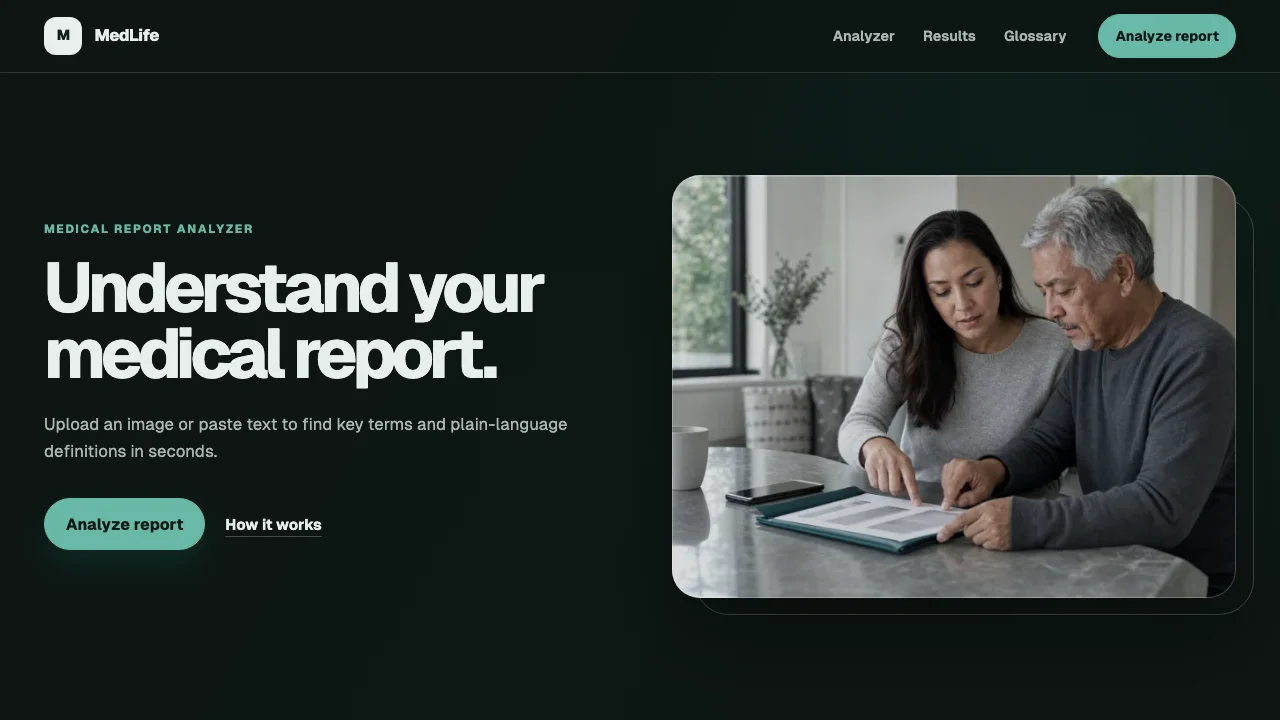
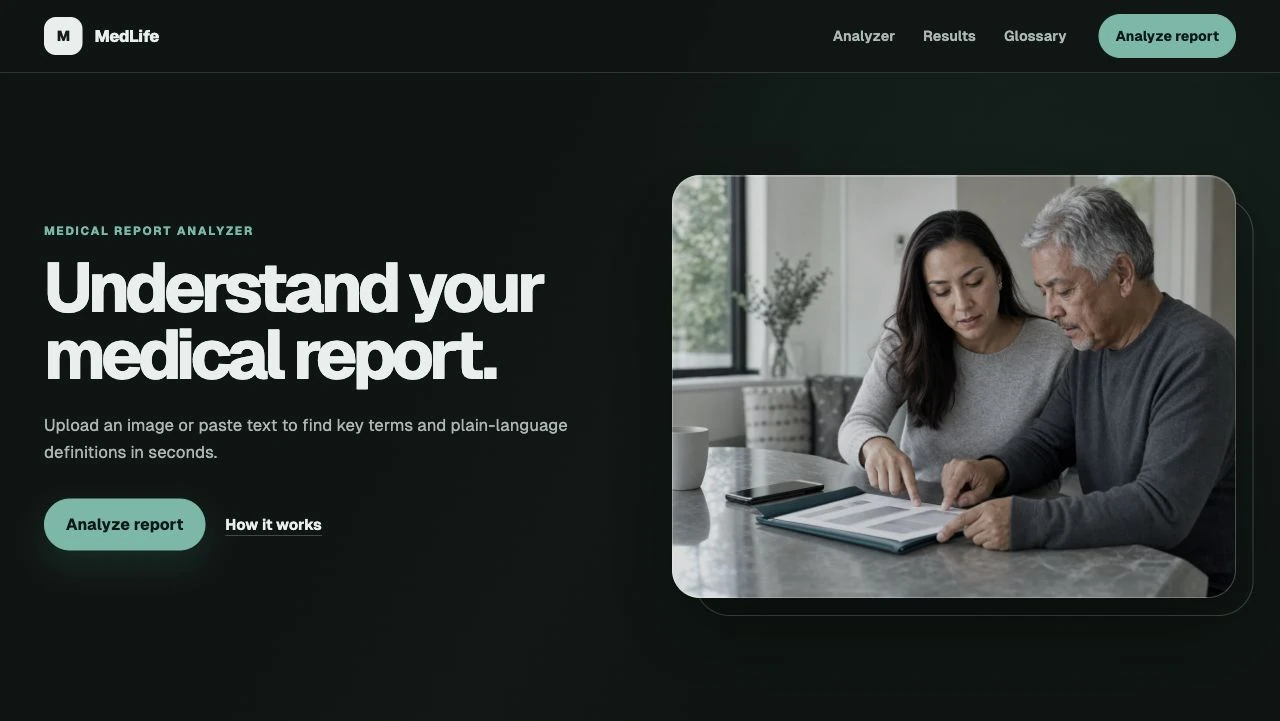
Refresh all project previews with complete current interfaces

diff --git a/src/content.js b/src/content.js
@@ -116,7 +116,8 @@ export const projects = [
     stack: ["FastAPI", "Next.js", "Supabase", "Groq", "spaCy"],
     image: "/assets/resumelens-1280.webp",
     imageSmall: "/assets/resumelens-640.webp",
-    imageAlt: "ResumeLens ATS resume analysis interface",
+    imageHeight: 783,
+    imageAlt: "Updated ResumeLens interface with its dark landing page and complete example resume report",
     live: "https://resumelens-ats.vercel.app/",
     github: "https://github.com/sohamkamat28/ATS_SCORER",
   },
@@ -128,7 +129,8 @@ export const projects = [
     stack: ["Python", "Dash", "Tesseract", "Hugging Face"],
     image: "/assets/medsimplify-1280.webp",
     imageSmall: "/assets/medsimplify-640.webp",
-    imageAlt: "MedSimplify medical report analyzer interface",
+    imageHeight: 721,
+    imageAlt: "MedLife medical report analyzer with its complete introduction and report review image",
     live: "https://medlife-topaz.vercel.app/",
     github: "https://github.com/sohamkamat28/medlife",
   },
@@ -140,7 +142,8 @@ export const projects = [
     stack: ["Flask", "scikit-learn", "yfinance", "D3.js"],
     image: "/assets/stocksense-1280.webp",
     imageSmall: "/assets/stocksense-640.webp",
-    imageAlt: "StockSense market signal and decision-tree interface",
+    imageHeight: 838,
+    imageAlt: "Complete StockSense market console with ticker selection and its illustrative signal preview",
     live: "https://stocksense-rho-ochre.vercel.app/",
     github: "https://github.com/sohamkamat28/StockSense",
   },
@@ -152,7 +155,8 @@ export const projects = [
     stack: ["Streamlit", "Plotly", "Pandas", "PCA"],
     image: "/assets/spotify-1280.webp",
     imageSmall: "/assets/spotify-640.webp",
-    imageAlt: "Spotify music analytics dashboard",
+    imageHeight: 826,
+    imageAlt: "Spotify Analytics dashboard with catalog filters and fully visible popularity charts",
     live: "https://spotify-trends-dashboard.streamlit.app/",
     github: "https://github.com/sohamkamat28/SpotifyDashboard",
   },
@@ -164,7 +168,8 @@ export const projects = [
     stack: ["MediaPipe", "OpenCV", "Streamlit", "WebRTC", "Groq"],
     image: "/assets/ai-gym-coach-1280.webp",
     imageSmall: "/assets/ai-gym-coach-640.webp",
-    imageAlt: "AI Gym Coach public landing page",
+    imageHeight: 938,
+    imageAlt: "Complete AI Gym Coach introduction with its live app button and exercise tracking overview",
     live: "https://ai-gym-bot.netlify.app/",
     github: "https://github.com/sohamkamat28/AI-GYM_COACH",
   },

diff --git a/src/styles.css b/src/styles.css
@@ -625,9 +625,23 @@ a.education-item:hover {
   transition: border-color .2s ease, box-shadow .2s ease;
 }
 .project-card:hover { border-color: color-mix(in srgb, var(--border), var(--fg) 22%); box-shadow: 0 9px 30px #0002; }
-.project-media { position: relative; overflow: hidden; aspect-ratio: 16 / 9; background: var(--chip); }
-.project-media img { width: 100%; height: 100%; transition: transform .4s ease; }
-.project-card a:hover .project-media img { transform: scale(1.045); }
+.project-media {
+  position: relative;
+  display: grid;
+  place-items: center;
+  overflow: hidden;
+  aspect-ratio: 16 / 10;
+  padding: clamp(12px, 2vw, 22px);
+  background: radial-gradient(ellipse at 50% 0%, #303740, #161b22 75%);
+}
+.project-media img {
+  width: 100%;
+  height: 100%;
+  min-width: 0;
+  min-height: 0;
+  object-fit: contain;
+  filter: drop-shadow(0 8px 12px #0005);
+}
 .project-card-body { display: grid; flex: 1; align-content: start; gap: 7px; padding: 11px 12px; }
 .project-card h3 { font-size: 16px; font-weight: 650; line-height: 1.2; }
 .project-card p { color: var(--muted); font-size: 12px; line-height: 1.52; }

diff --git a/src/App.jsx b/src/App.jsx
@@ -505,7 +505,8 @@ function ProjectImage({ project, index, number = false }) {
     <div className="project-media">
       {project.image ? (
         <img src={project.image} srcSet={project.imageSmall ? `${project.imageSmall} 640w, ${project.image} 1280w` : undefined}
-          sizes="(max-width: 640px) 90vw, 500px" alt={project.imageAlt} loading="lazy" width="1280" height="720" />
+          sizes="(max-width: 767px) calc(100vw - 64px), 500px" alt={project.imageAlt} loading="lazy" decoding="async"
+          width="1280" height={project.imageHeight ?? 720} />
       ) : number && <div className="project-number" aria-hidden="true"><span>Project</span><strong>{String(index + 1).padStart(2, "0")}</strong></div>}
     </div>
   );
